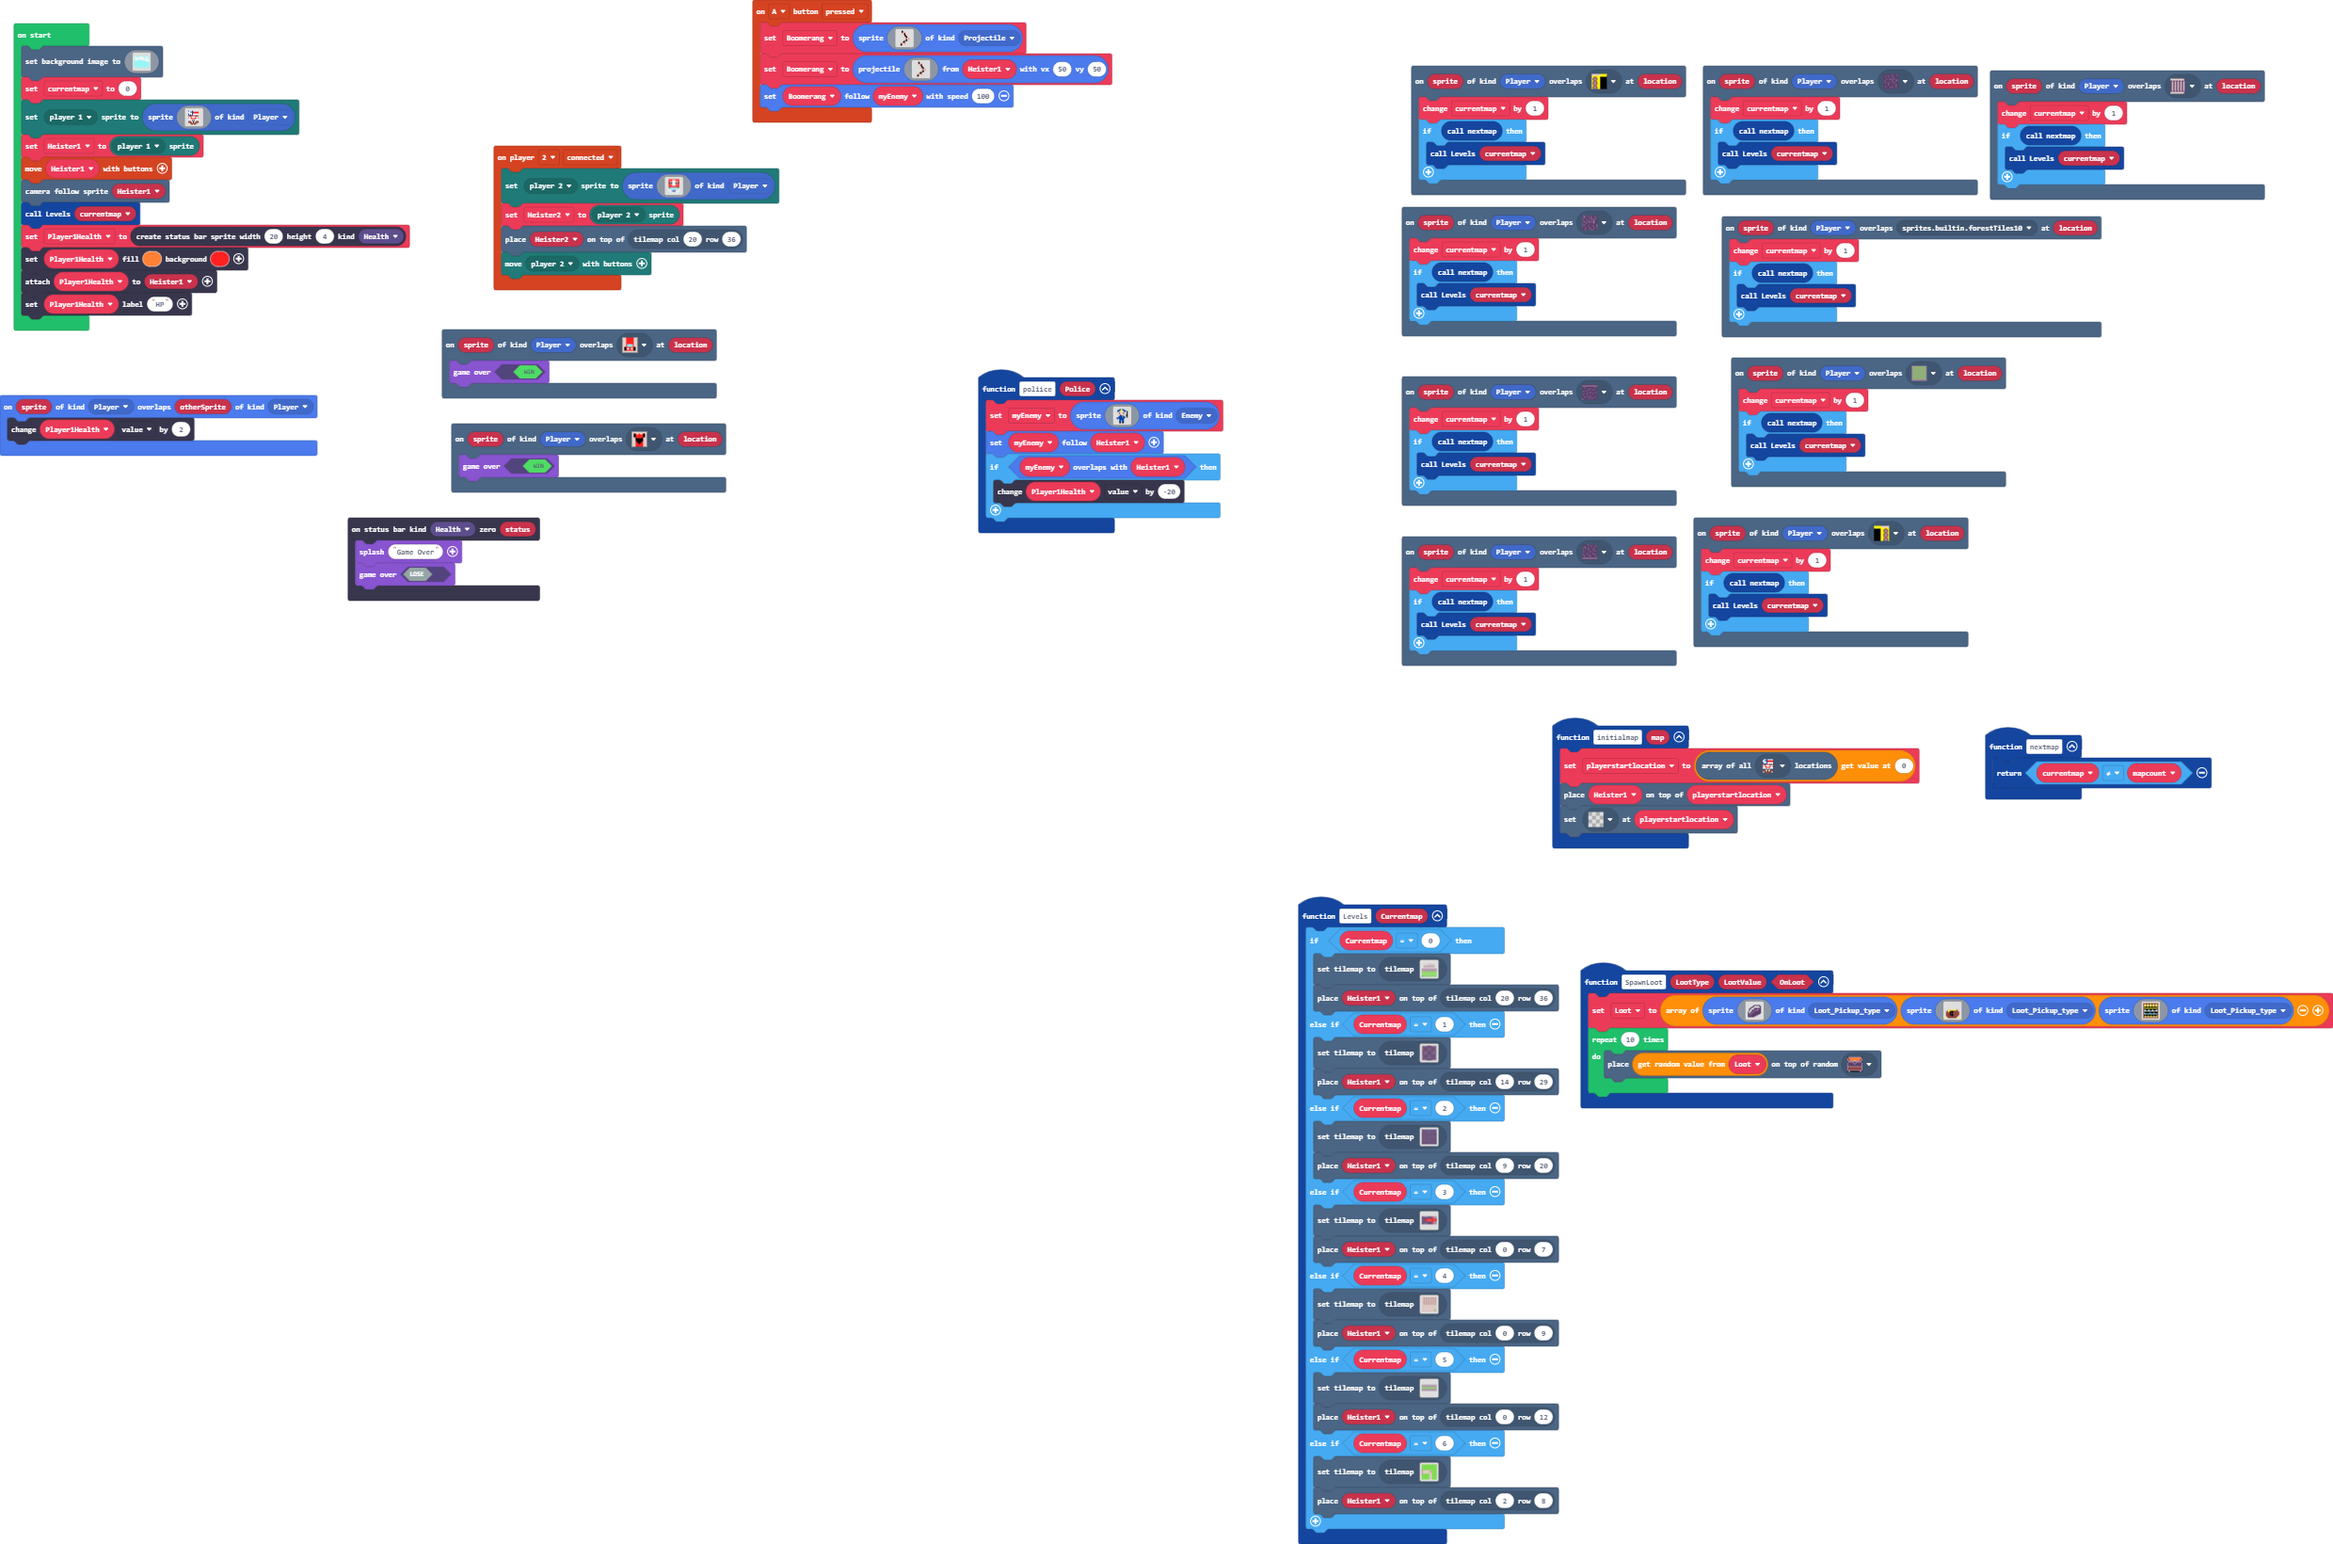
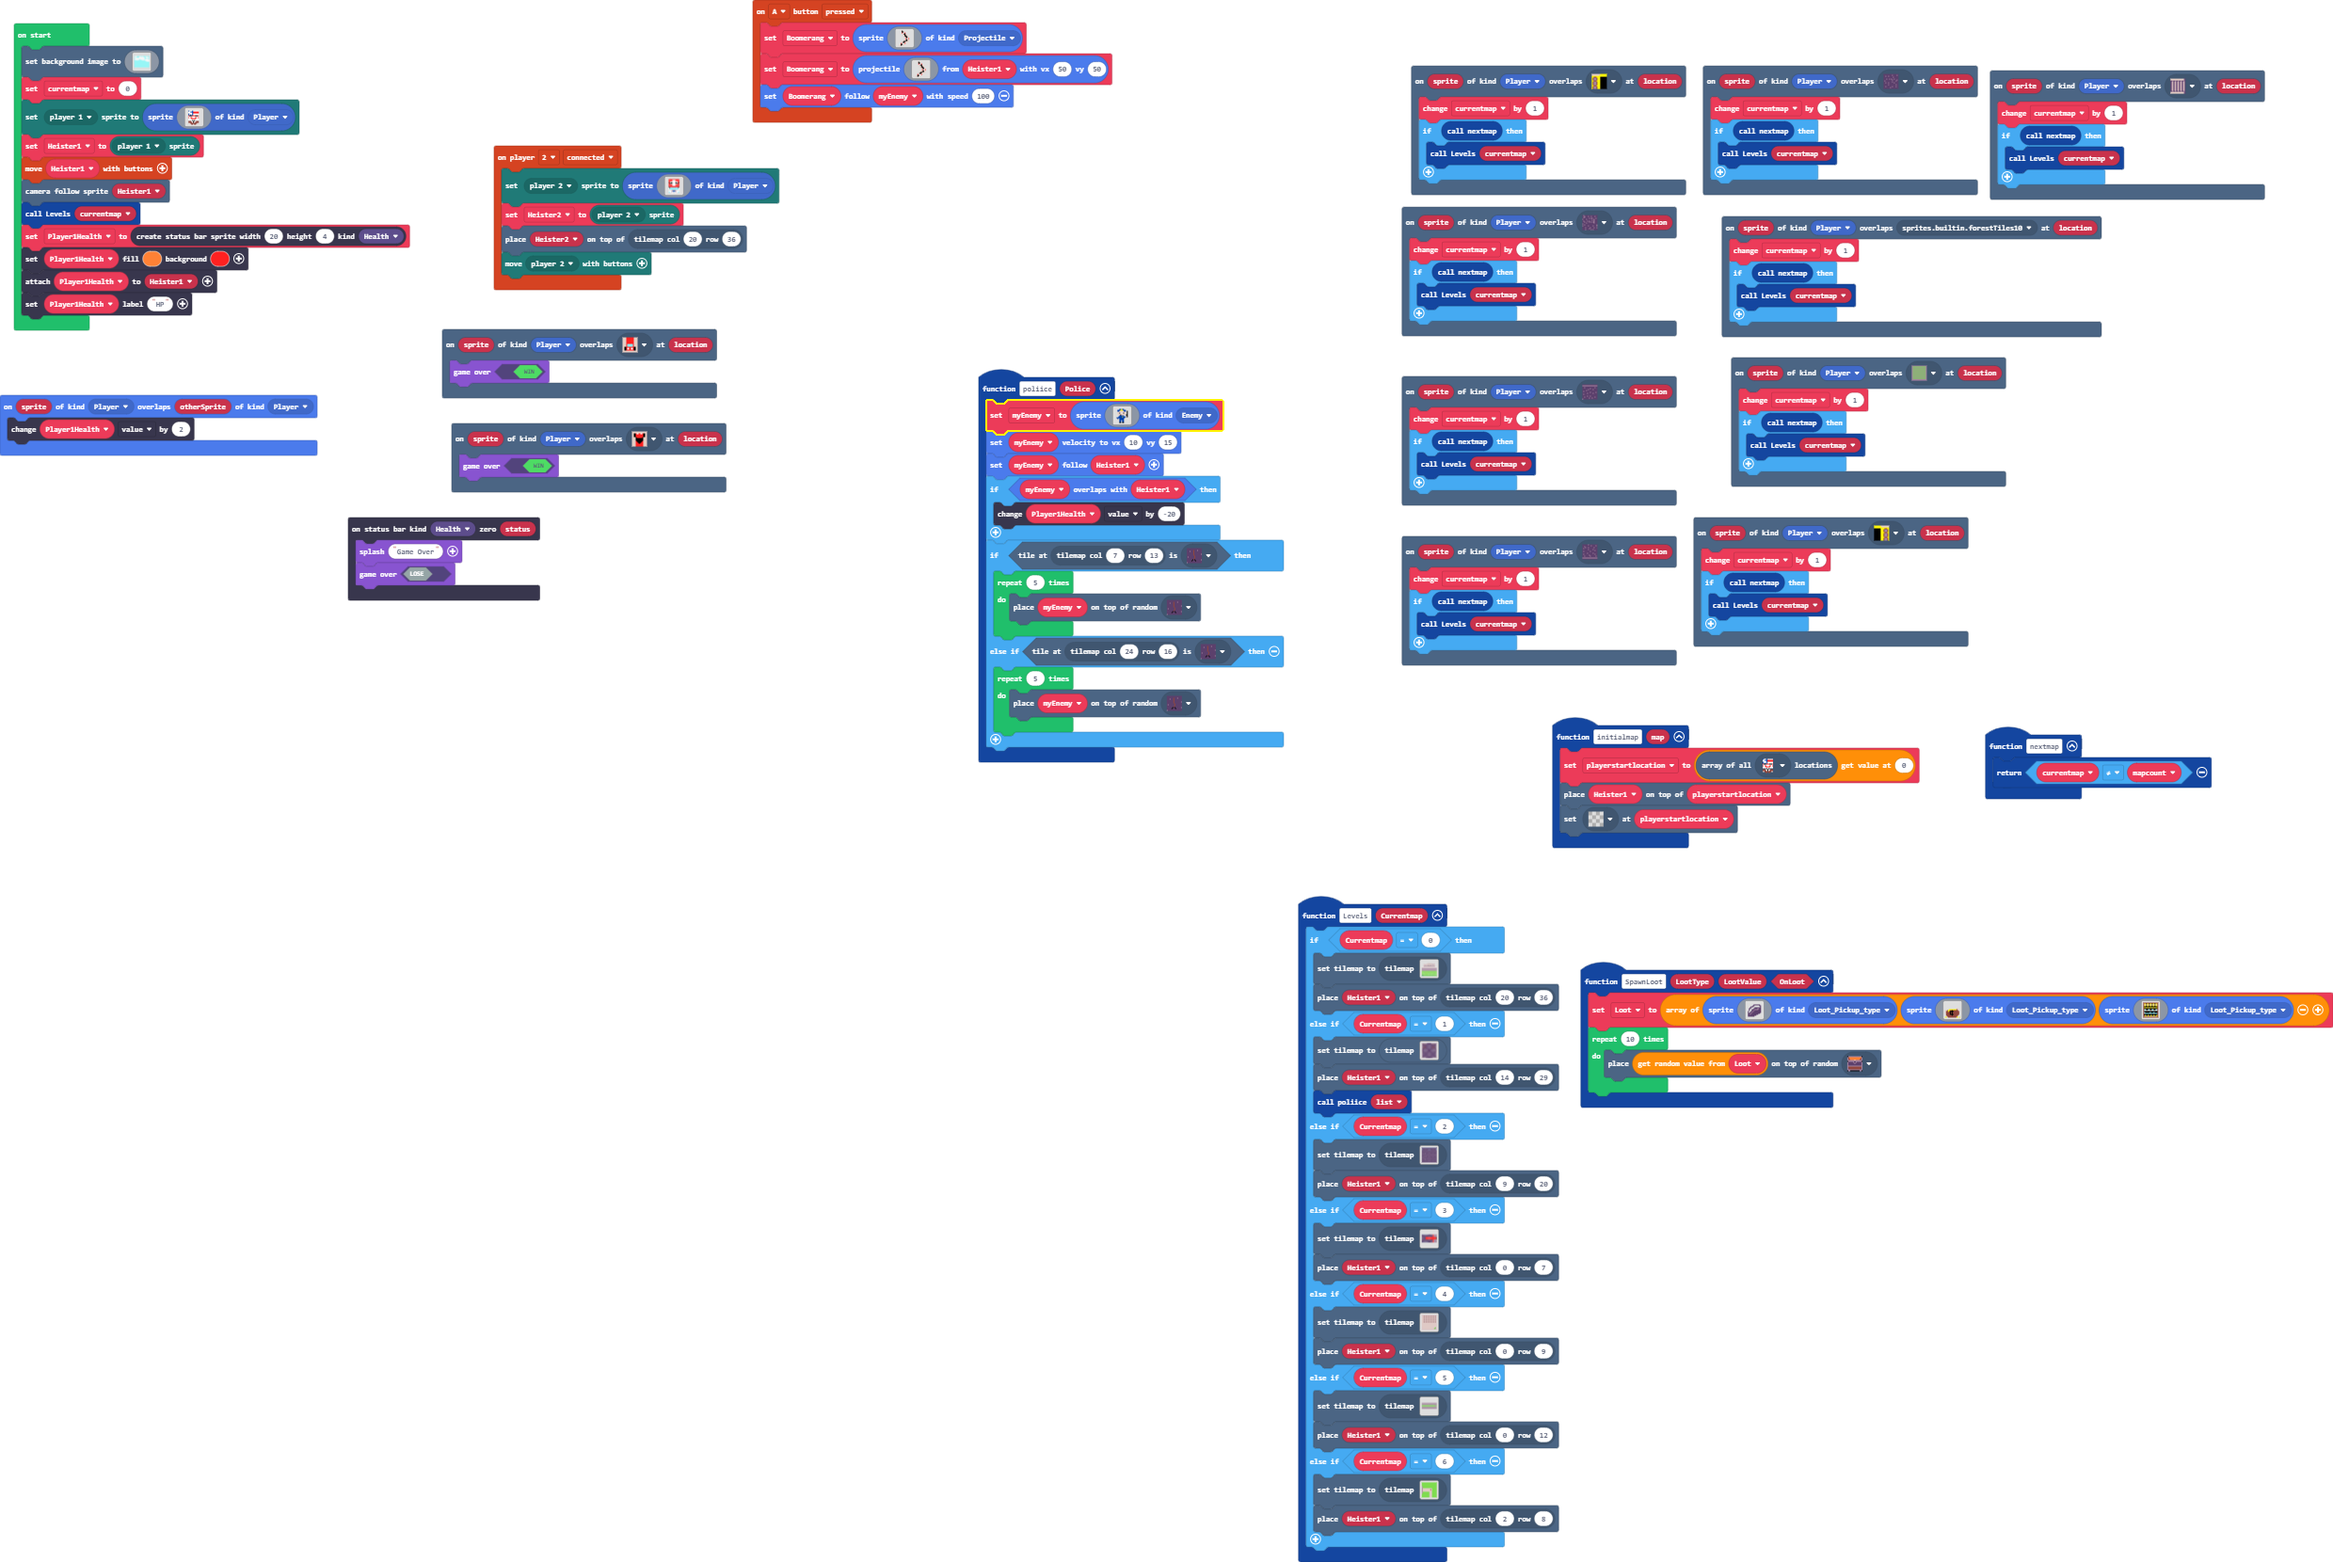
Update main.blocks, main.ts, tilemap.g.jres, tilemap.g.ts

diff --git a/tilemap.g.ts b/tilemap.g.ts
@@ -768,39 +768,6 @@ namespace myTiles {
 . . . . . . . . . . . . . . . . 
 . . . . . . . . . . . . . . . . 
 `, [myTiles.transparency16], TileScale.Sixteen);
-            case "bank_main_area":
[1 lines of base64/hex data omitted]
-2222222222.........22222222222
-2............................2
-2............................2
-2.2222222...........2222222..2
-2............................2
-2............................2
-2.2222222...........2222222..2
-2............................2
-2.2222222...........2222222..2
-2............................2
-2.2222222...........2222222..2
-2............................2
-2.....2.................22...2
-2.........2..............22..2
-2....2.................2..2..2
-2......2..................2..2
-2.....................2.2.2..2
-2............................2
-2............................2
-2............................2
-2............................2
-2............................2
-2............................2
-2............................2
-2............................2
-2............................2
-2............................2
-2............................2
-2............................2
-22222222..............22222222
-`, [myTiles.transparency16,sprites.dungeon.darkGroundCenter,sprites.dungeon.darkGroundNorthWest0,sprites.dungeon.darkGroundSouth,sprites.dungeon.darkGroundSouthWest0,sprites.dungeon.darkGroundWest,sprites.dungeon.darkGroundEast,sprites.dungeon.darkGroundSouthEast0,sprites.dungeon.darkGroundNorthEast0,sprites.dungeon.darkGroundNorth,sprites.dungeon.floorLight0,myTiles.tile33,myTiles.tile34,myTiles.tile35,sprites.dungeon.floorDark3,myTiles.tile36,myTiles.tile37,sprites.dungeon.darkGroundSouthEast1,sprites.dungeon.darkGroundSouthWest1,myTiles.tile38,myTiles.tile41], TileScale.Sixteen);
             case "level40":
             case "level40":return tiles.createTilemap(hex`1000100000000000000000000000000000000000000000000000000000000000000000000000000000000000000000000000000000000000000000000000000000000000000000000000000000000000000000000000000000000000000000000000000000000000000000000000000000000000000000000000000000000000000000000000000000000000000000000000000000000000000000000000000000000000000000000000000000000000000000000000000000000000000000000000000000000000000000000000000000000000000000000000000000000000000000000000000000000000000000000000000000000000000000000000000000000000`, img`
 . . . . . . . . . . . . . . . . 
@@ -1248,6 +1215,58 @@ namespace myTiles {
 `, [myTiles.transparency16], TileScale.Sixteen);
             case "level57":
             case "level57":return tiles.createTilemap(hex`1000100000000000000000000000000000000000000000000000000000000000000000000000000000000000000000000000000000000000000000000000000000000000000000000000000000000000000000000000000000000000000000000000000000000000000000000000000000000000000000000000000000000000000000000000000000000000000000000000000000000000000000000000000000000000000000000000000000000000000000000000000000000000000000000000000000000000000000000000000000000000000000000000000000000000000000000000000000000000000000000000000000000000000000000000000000000000`, img`
+. . . . . . . . . . . . . . . . 
+. . . . . . . . . . . . . . . . 
+. . . . . . . . . . . . . . . . 
+. . . . . . . . . . . . . . . . 
+. . . . . . . . . . . . . . . . 
+. . . . . . . . . . . . . . . . 
+. . . . . . . . . . . . . . . . 
+. . . . . . . . . . . . . . . . 
+. . . . . . . . . . . . . . . . 
+. . . . . . . . . . . . . . . . 
+. . . . . . . . . . . . . . . . 
+. . . . . . . . . . . . . . . . 
+. . . . . . . . . . . . . . . . 
+. . . . . . . . . . . . . . . . 
+. . . . . . . . . . . . . . . . 
+. . . . . . . . . . . . . . . . 
+`, [myTiles.transparency16], TileScale.Sixteen);
+            case "bank_main_area":
[1 lines of base64/hex data omitted]
+2222222222.........22222222222
+2............................2
+2............................2
+2.2222222...........2222222..2
+2............................2
+2............................2
+2.2222222...........2222222..2
+2............................2
+2.2222222...........2222222..2
+2............................2
+2.2222222...........2222222..2
+2............................2
+2.....2.................22...2
+2.........2..............22..2
+2....2.................2..2..2
+2......2..................2..2
+2.....................2...2..2
+2............................2
+2............................2
+2............................2
+2............................2
+2............................2
+2............................2
+2............................2
+2............................2
+2............................2
+2............................2
+2............................2
+2............................2
+22222222..............22222222
+`, [myTiles.transparency16,sprites.dungeon.darkGroundCenter,sprites.dungeon.darkGroundNorthWest0,sprites.dungeon.darkGroundSouth,sprites.dungeon.darkGroundSouthWest0,sprites.dungeon.darkGroundWest,sprites.dungeon.darkGroundEast,sprites.dungeon.darkGroundSouthEast0,sprites.dungeon.darkGroundNorthEast0,sprites.dungeon.darkGroundNorth,sprites.dungeon.floorLight0,myTiles.tile33,myTiles.tile34,myTiles.tile35,sprites.dungeon.floorDark3,myTiles.tile36,myTiles.tile37,sprites.dungeon.darkGroundSouthEast1,sprites.dungeon.darkGroundSouthWest1,myTiles.tile38,myTiles.tile41], TileScale.Sixteen);
+            case "level58":
+            case "level58":return tiles.createTilemap(hex`1000100000000000000000000000000000000000000000000000000000000000000000000000000000000000000000000000000000000000000000000000000000000000000000000000000000000000000000000000000000000000000000000000000000000000000000000000000000000000000000000000000000000000000000000000000000000000000000000000000000000000000000000000000000000000000000000000000000000000000000000000000000000000000000000000000000000000000000000000000000000000000000000000000000000000000000000000000000000000000000000000000000000000000000000000000000000000`, img`
 . . . . . . . . . . . . . . . . 
 . . . . . . . . . . . . . . . . 
 . . . . . . . . . . . . . . . . 

diff --git a/main.ts b/main.ts
@@ -6,8 +6,10 @@ function Levels (Currentmap: number) {
         tiles.setCurrentTilemap(tilemap`Prototype_bank_entrance`)
         tiles.placeOnTile(Heister1, tiles.getTileLocation(20, 36))
     } else if (Currentmap == 1) {
+        let list: number[] = []
         tiles.setCurrentTilemap(tilemap`bank_main_area`)
         tiles.placeOnTile(Heister1, tiles.getTileLocation(14, 29))
+        poliice(list)
     } else if (Currentmap == 2) {
         tiles.setCurrentTilemap(tilemap`ATM`)
         tiles.placeOnTile(Heister1, tiles.getTileLocation(9, 20))
@@ -67,9 +69,19 @@ scene.onOverlapTile(SpriteKind.Player, assets.tile`vent`, function (sprite, loca
 })
 function poliice (Police: any[]) {
     myEnemy = sprites.create(assets.image`myImage`, SpriteKind.Enemy)
+    myEnemy.setVelocity(10, 15)
     myEnemy.follow(Heister1)
     if (myEnemy.overlapsWith(Heister1)) {
         Player1Health.value += -20
+    }
+    if (tiles.tileAtLocationEquals(tiles.getTileLocation(7, 13), assets.tile`rope_tile`)) {
+        for (let index = 0; index < 5; index++) {
+            tiles.placeOnRandomTile(myEnemy, assets.tile`rope_tile`)
+        }
+    } else if (tiles.tileAtLocationEquals(tiles.getTileLocation(24, 16), assets.tile`rope_tile`)) {
+        for (let index = 0; index < 5; index++) {
+            tiles.placeOnRandomTile(myEnemy, assets.tile`rope_tile`)
+        }
     }
 }
 statusbars.onZero(StatusBarKind.Health, function (status) {
